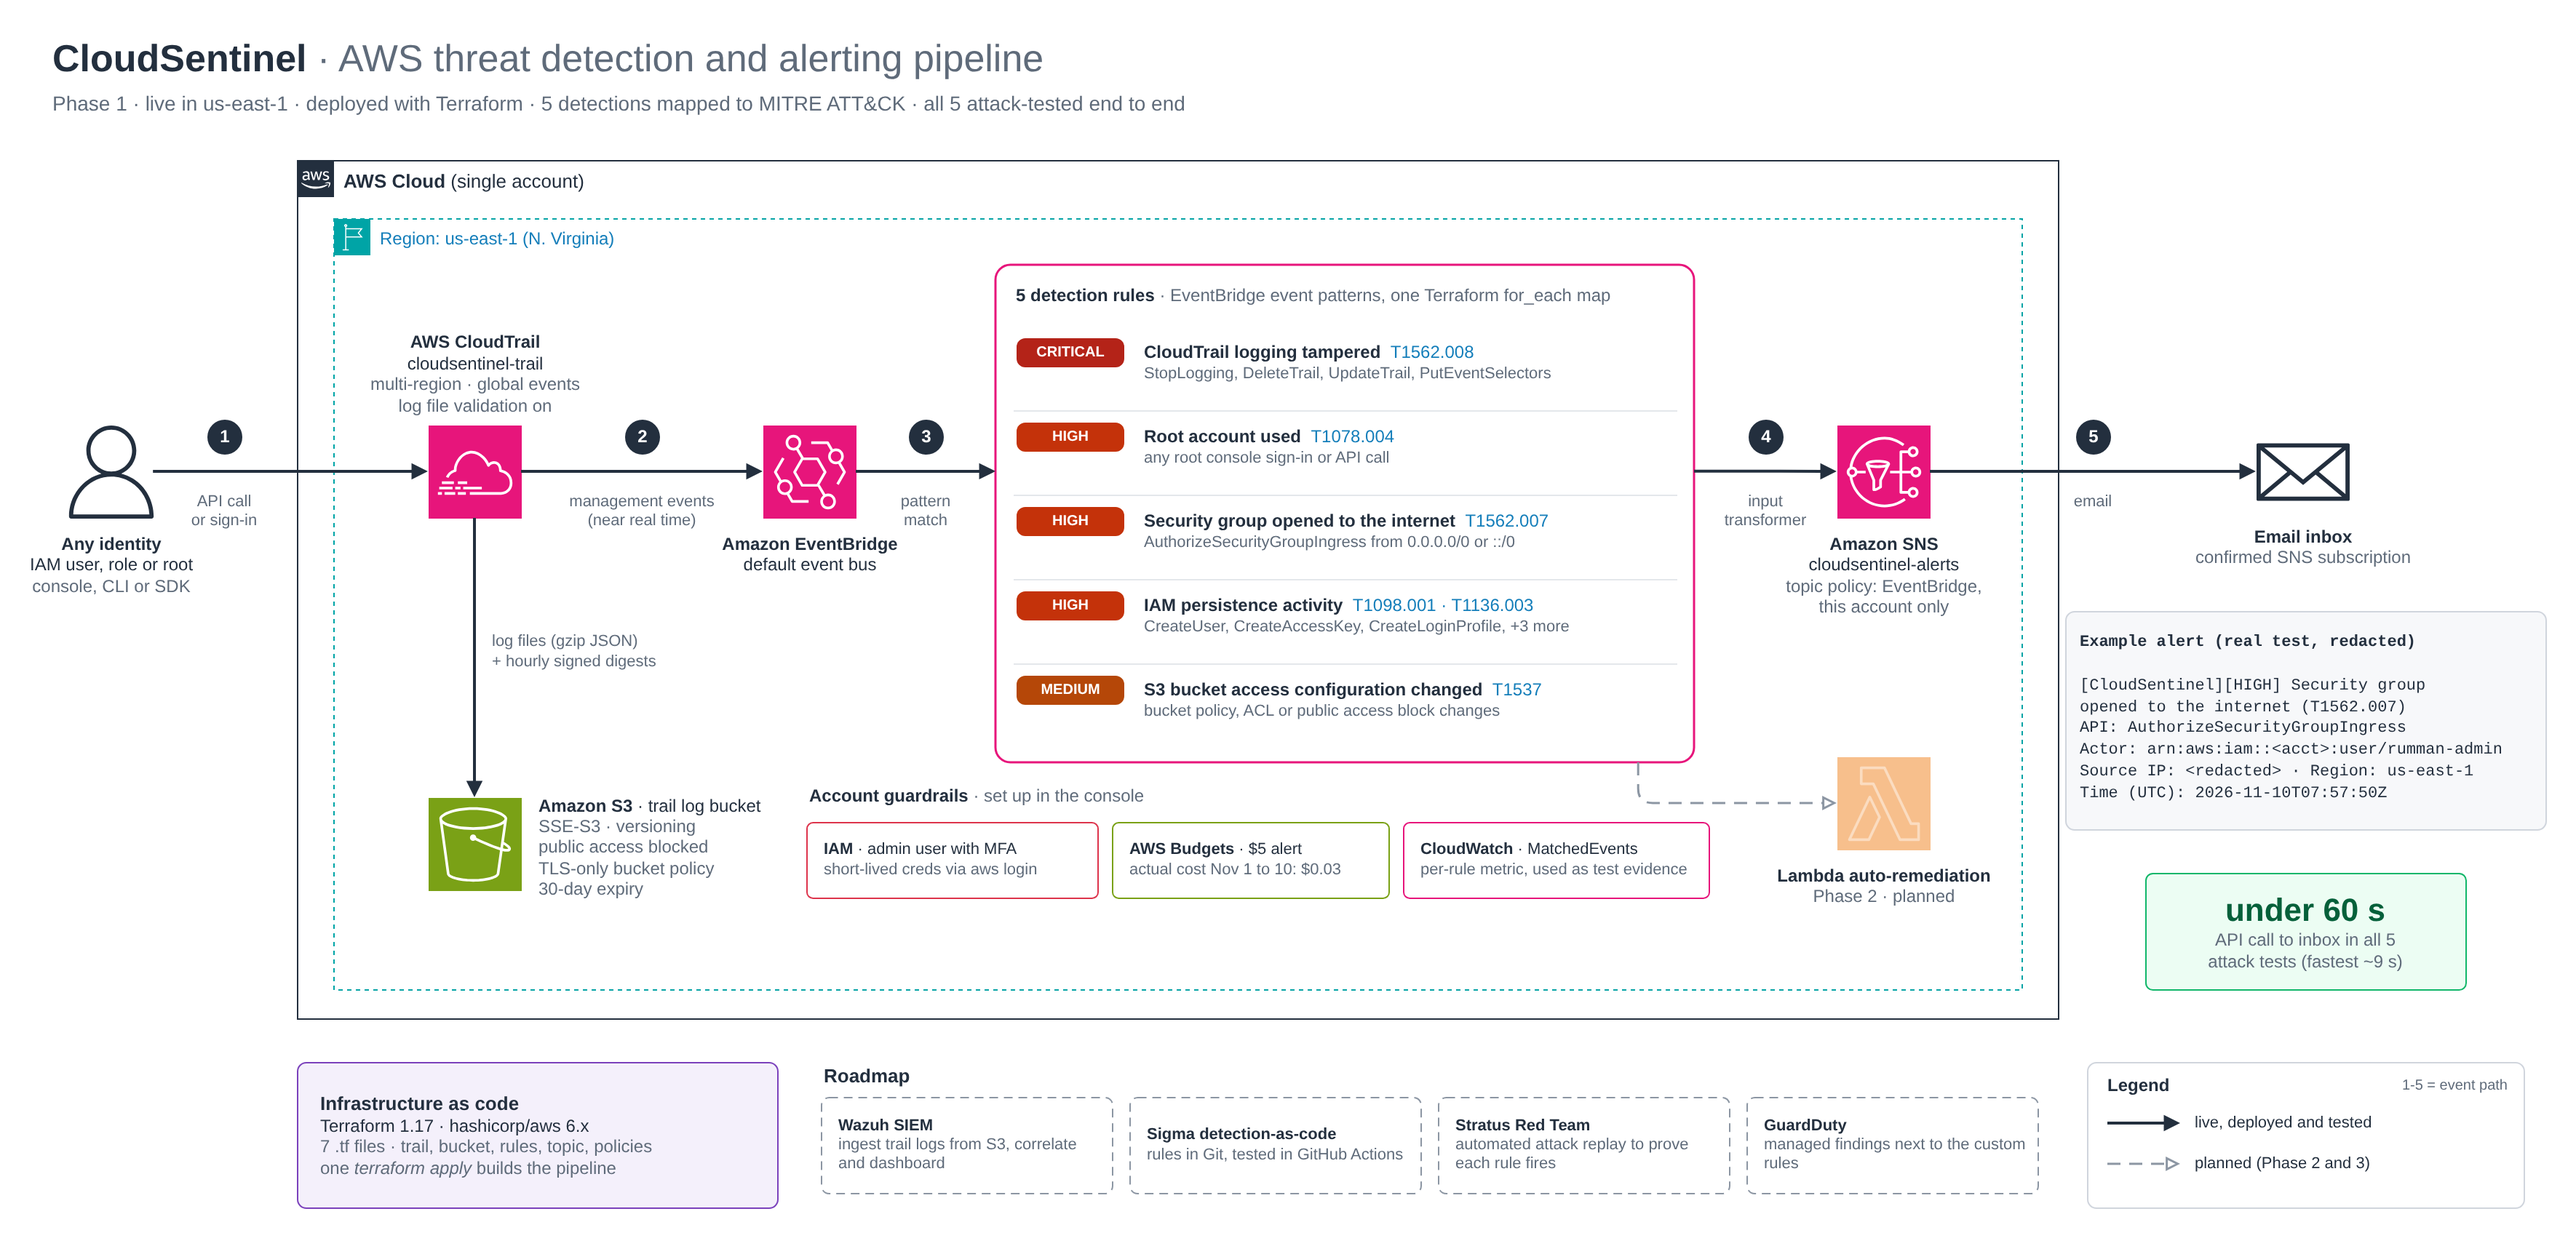
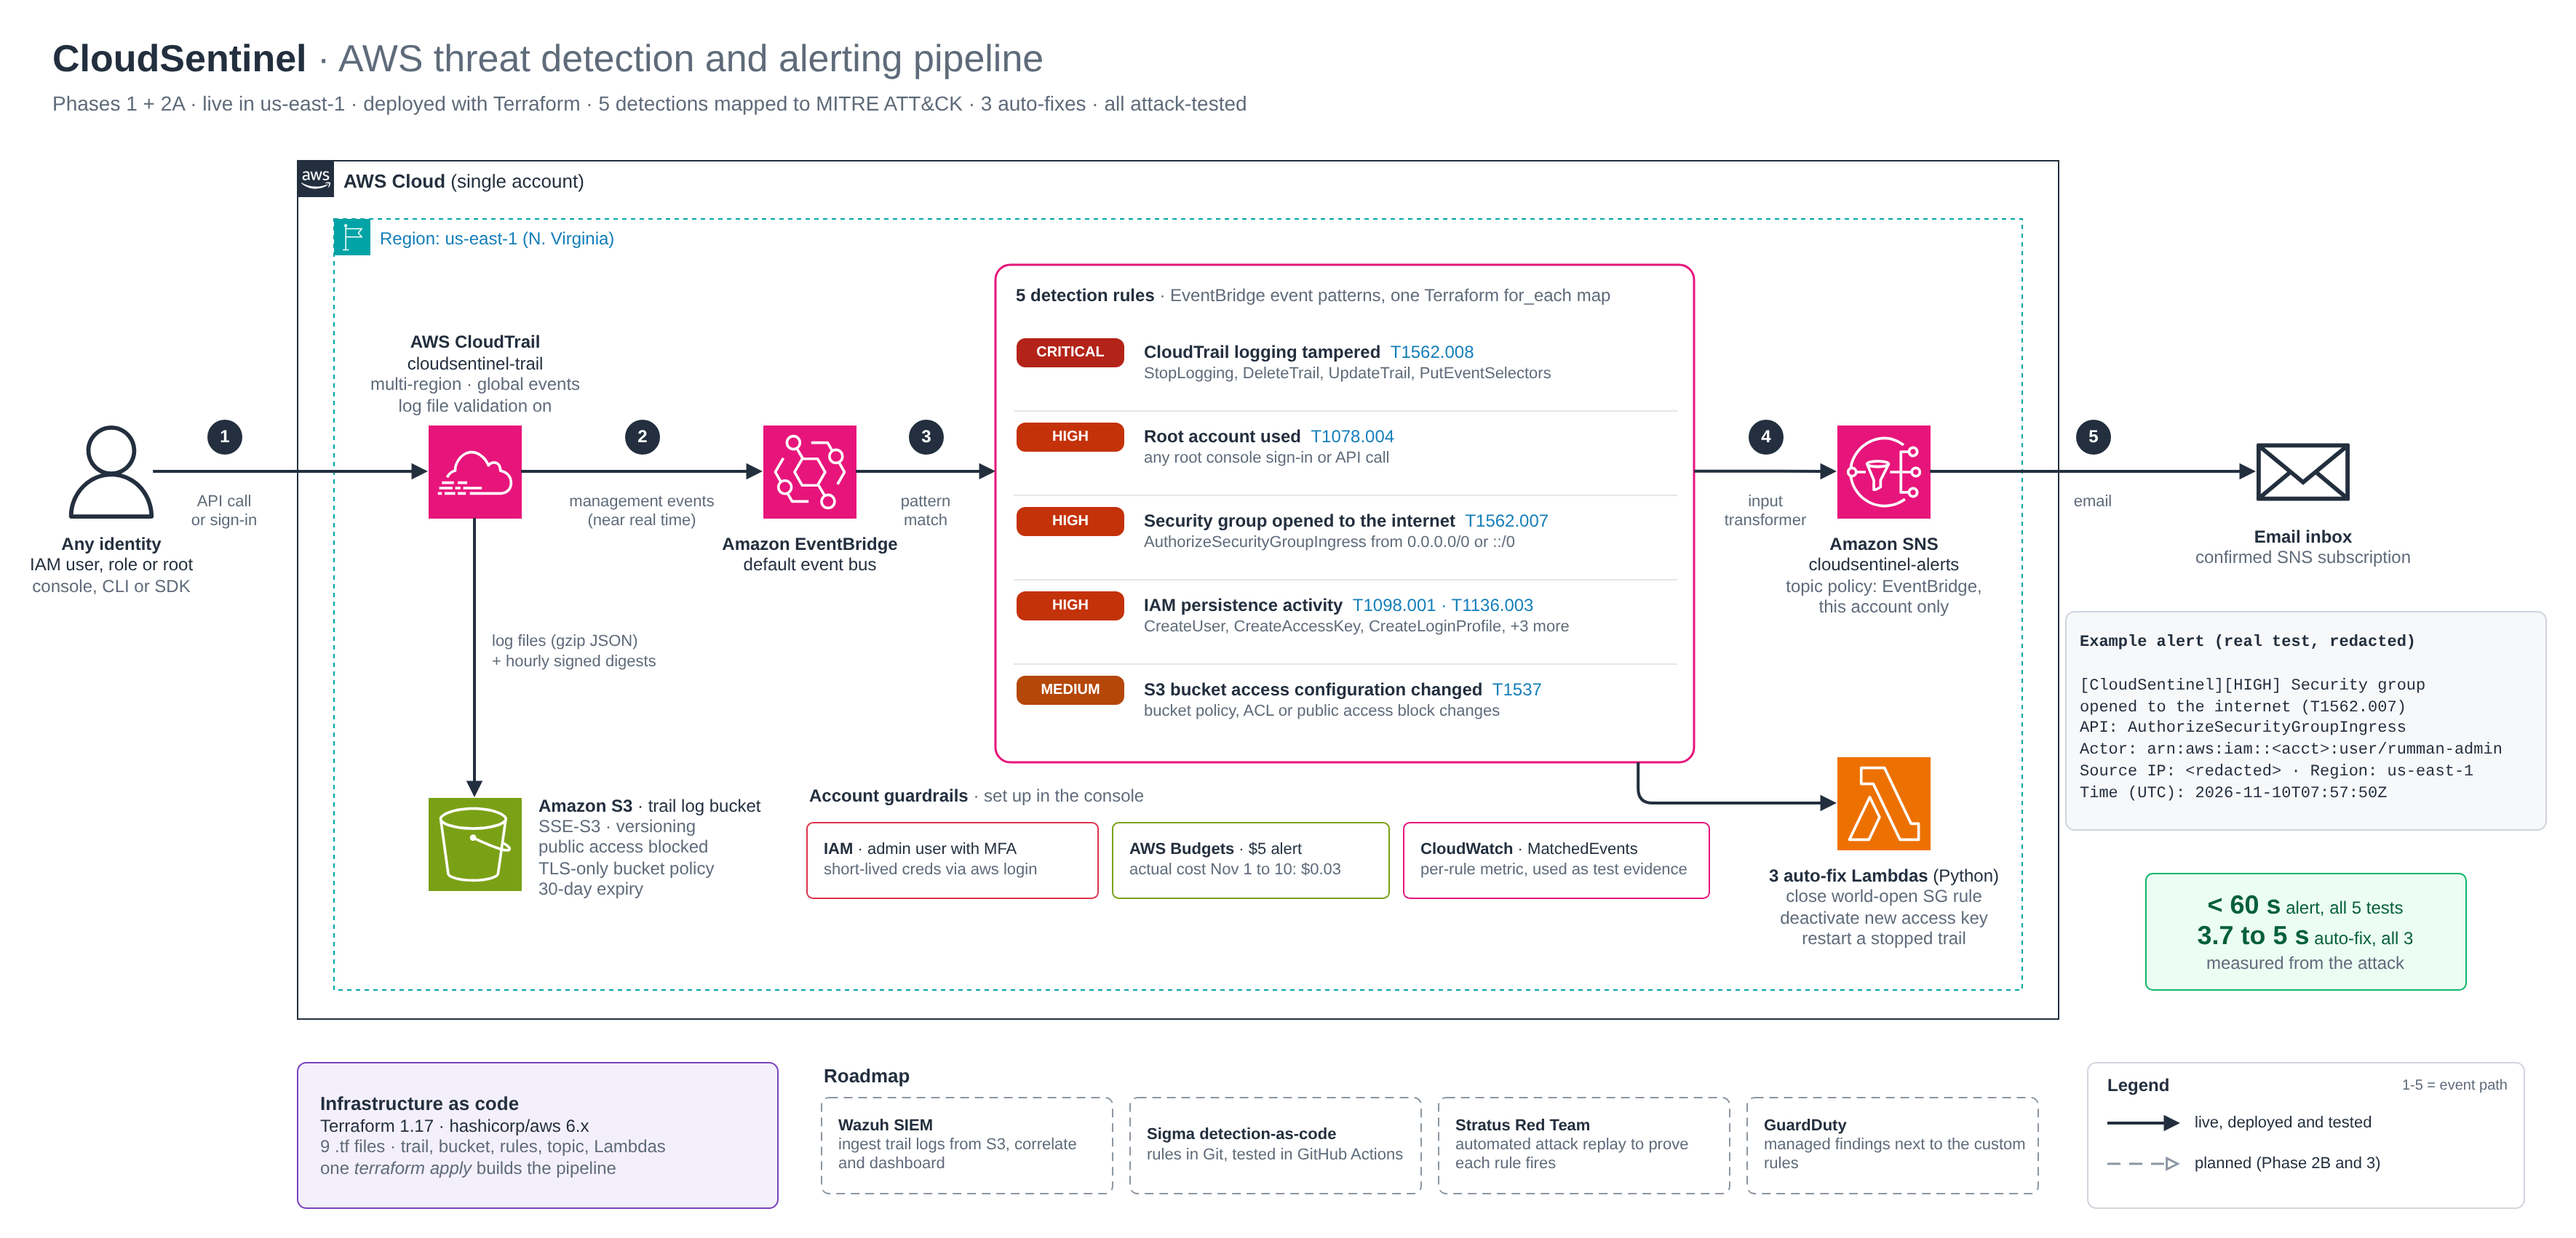
Update README and diagram for Phase 2A auto-remediation

diff --git a/README.md b/README.md
@@ -2,15 +2,15 @@
 
 # CloudSentinel
 
-CloudSentinel watches my AWS account for five risky actions and emails me when one happens. Every alert in my tests arrived in under a minute. It all deploys with Terraform.
+CloudSentinel watches my AWS account for five risky actions, emails me when one happens, and fixes three of them on its own. Every alert in my tests arrived in under a minute. The three auto-fixes finished 3.7 to 5 seconds after the attack. It all deploys with Terraform.
 
 Each detection maps to a MITRE ATT&CK technique. I tested every one by doing the risky thing myself, then cleaning up.
 
-**Where it stands:** detection and alerting work. Auto-fixing, a SIEM, and detection rules as code are next. None of those exist yet.
+**Where it stands:** detection, alerting and auto-remediation work. A SIEM and detection rules as code are next. Neither exists yet.
 
 ## How it works
 
-CloudTrail records every API call in every region. It keeps a copy in an S3 bucket and sends the events to EventBridge. Five rules there watch for the risky ones, and a match goes to an SNS topic that emails me.
+CloudTrail records every API call in every region. It keeps a copy in an S3 bucket and sends the events to EventBridge. Five rules there watch for the risky ones. A match goes to an SNS topic that emails me, and for three of the rules it also runs a Lambda that undoes the change.
 
     API call (any region)
           |
@@ -18,8 +18,9 @@ CloudTrail records every API call in every region. It keeps a copy in an S3 buck
           |------> S3 bucket (versioned, encrypted, log file validation on)
           |
     EventBridge (5 rules, us-east-1)
+          |------> SNS topic ------> email alert
           |
-    SNS topic ------> email alert
+          |------> Lambda (3 of the 5 rules) ------> fix + "AUTO-FIXED" email
 
 Each alert is one line, so it's quick to read:
 
@@ -29,15 +30,52 @@ Each alert is one line, so it's quick to read:
 
 ## The five detections
 
-| Rule | Fires on | ATT&CK | Severity |
-| --- | --- | --- | --- |
-| cloudtrail-tampering | StopLogging, DeleteTrail, UpdateTrail, PutEventSelectors | T1562.008 Disable or Modify Cloud Logs | CRITICAL |
-| root-activity | Any root sign-in or API call | T1078.004 Valid Accounts: Cloud Accounts | HIGH |
-| sg-open-to-world | A security group rule opened to 0.0.0.0/0 or ::/0 | T1562.007 Disable or Modify Cloud Firewall | HIGH |
-| iam-persistence | CreateUser, CreateAccessKey, CreateLoginProfile, AttachUserPolicy, PutUserPolicy, AddUserToGroup | T1098.001 Additional Cloud Credentials, T1136.003 Create Cloud Account | HIGH |
-| s3-access-change | Bucket policy, ACL, or public access block changes | T1537 Transfer Data to Cloud Account (a precursor signal, not exfiltration itself) | MEDIUM |
+| Rule | Fires on | ATT&CK | Severity | Auto-fix |
+| --- | --- | --- | --- | --- |
+| cloudtrail-tampering | StopLogging, DeleteTrail, UpdateTrail, PutEventSelectors | T1562.008 Disable or Modify Cloud Logs | CRITICAL | Restarts logging after StopLogging |
+| root-activity | Any root sign-in or API call | T1078.004 Valid Accounts: Cloud Accounts | HIGH | No, alert only |
+| sg-open-to-world | A security group rule opened to 0.0.0.0/0 or ::/0 | T1562.007 Disable or Modify Cloud Firewall | HIGH | Removes the open rule (port 443 is left alone) |
+| iam-persistence | CreateUser, CreateAccessKey, CreateLoginProfile, AttachUserPolicy, PutUserPolicy, AddUserToGroup | T1098.001 Additional Cloud Credentials, T1136.003 Create Cloud Account | HIGH | Deactivates a new access key |
+| s3-access-change | Bucket policy, ACL, or public access block changes | T1537 Transfer Data to Cloud Account (a precursor signal, not exfiltration itself) | MEDIUM | No, alert only |
 
-## What I tested
+## Auto-remediation
+
+Three small Python Lambdas run on the same EventBridge rules that send the alerts. Each one reads the CloudTrail event, checks whether it should act, makes one change, and emails me what it did.
+
+| Lambda | What it does | Can only |
+| --- | --- | --- |
+| cloudsentinel-sg-remediate | Removes inbound rules open to 0.0.0.0/0 or ::/0 on the group that changed. Port 443 is skipped, since a public website needs it. | Describe security groups, revoke ingress |
+| cloudsentinel-key-remediate | Sets a newly created access key to Inactive. It isn't deleted, so it can be switched back on. | Update access key status |
+| cloudsentinel-trail-remediate | Calls StartLogging when someone stops the CloudSentinel trail. | Start logging and read status on this one trail |
+
+Each Lambda has its own IAM role with only those permissions, plus publishing to the alert topic and writing its own logs.
+
+Safety checks I built in:
+
+- **Dry-run mode.** With `remediation_dry_run = true` (the default), the Lambdas only email what they would change. I deployed the first one in dry-run, checked that it changed nothing, then switched it on.
+- **Allowlists.** A security group tagged `cloudsentinel:allow-public=true` is skipped. Users listed in `remediation_allowed_users` keep their new keys.
+- **Root and S3 stay alert-only.** Root activity needs a human to judge it. Changing a bucket's access back automatically could break something that was changed on purpose.
+- **DeleteTrail stays alert-only.** A deleted trail can't simply be switched back on. Recreating it is a job for Terraform, not a Lambda.
+
+### What I tested
+
+| Auto-fix | What I did | Attack (UTC) | Fixed (UTC) | Time to fix |
+| --- | --- | --- | --- | --- |
+| Security group | Opened port 8080 to 0.0.0.0/0 on a group that already had 22 and 443 open | 10:38:31 | 10:38:36 | about 5 s |
+| Access key | Created a second access key for a throwaway user | 12:09:18 | 12:09:22 | about 4 s |
+| CloudTrail | Stopped logging on the trail | 12:20:18.59 | 12:20:22.31 | 3.7 s |
+
+The CloudTrail times come from AWS's own StopLoggingTime and StartLoggingTime, so that one is exact. The other two attack times come from the alert emails, which round to the second.
+
+In the security group test the Lambda closed 22 and 8080 and left 443 open, which is what it should do.
+
+![Trail stopped and restarted 3.7 seconds apart](docs/evidence/19c-trail-stopped-vs-restarted.png)
+
+![Security group auto-fix email](docs/evidence/15b-auto-fixed-email.png)
+
+![Access key auto-fix email](docs/evidence/18d-auto-fixed-key-inactive.png)
+
+## What I tested in Phase 1
 
 I ran each action with the AWS CLI, waited for the email, and then deleted what I'd made. For the IAM test, that was a throwaway user and access key.
 
@@ -63,6 +101,9 @@ More screenshots are in `docs/evidence/`.
 
 - My admin IAM user couldn't open the Billing console, even with AdministratorAccess. Only the root user can turn on IAM access to billing. I switched it on once as root, then went back to the admin user.
 - A leftover KMS key from an older lab was $0.68 of my $0.71 bill for October as of the 22nd. A disabled key still costs $1 a month, so I scheduled it for deletion. It's gone now.
+- I indented one line of Python with a Tab while the rest used spaces. The Lambda crashed on every run and the port stayed open. The CloudWatch log showed `inconsistent use of tabs and spaces`, so I converted the tabs and redeployed.
+- A paste went wrong and a Lambda file ended up as one stray word. `py_compile` passed because a single name is valid Python, but the function failed as soon as it ran. Compiling isn't the same as testing.
+- Failed Lambda runs get retried automatically. After I fixed the tab error, a retried event from the failed run closed port 22 on its own, so I got two AUTO-FIXED emails instead of one.
 
 ## Design choices
 
@@ -73,14 +114,18 @@ More screenshots are in `docs/evidence/`.
 - The bucket policy lets only this trail write, using an aws:SourceArn check, and it blocks plain HTTP.
 - All five detections live in one Terraform map, and the rules and targets are built from it. Adding a sixth means adding one block.
 - An EventBridge input transformer turns the raw event into the one-line alert, so I don't need a Lambda for that.
+- The fix Lambdas are extra targets on the existing rules, so the alert still goes out even if a fix fails.
+- Lambda logs are kept for 7 days to keep the cost near zero.
 - I log in with `aws login`, so there are no long-lived access keys on my laptop.
 - Everything runs in us-east-1, because IAM and root sign-in events only reach EventBridge there.
 
 ## What it doesn't do yet
 
 - The rules only run in us-east-1, so EC2 and S3 events from other regions slip through.
-- It alerts, but it doesn't fix anything.
-- Someone with admin rights could delete the EventBridge rules or the SNS topic, and nothing would tell me.
+- If a fix Lambda fails, nothing tells me. The alert still arrives, but I'd only spot the failure in the logs. An alarm on Lambda errors would fix that.
+- The security group fix removes every world-open rule on that group except 443, not just the one that was added.
+- The key fix only deactivates the new key. It doesn't remove the user or any policies the attacker attached.
+- Someone with admin rights could delete the EventBridge rules, the Lambdas or the SNS topic, and nothing would tell me.
 - CloudTrail to EventBridge delivery is best-effort, so I can't promise exact timing.
 - An admin can still delete log versions. A production setup would add S3 Object Lock and a separate log account.
 - I expect the s3-access-change and root-activity rules to be noisy on normal admin work. I haven't tuned them.
@@ -88,7 +133,7 @@ More screenshots are in `docs/evidence/`.
 
 ## Cost
 
-From November 1 to 10 the bill was $0.03. All of it was S3 log storage, and CloudTrail was $0.00.
+From November 1 to 10 the bill was $0.03. All of it was S3 log storage, and CloudTrail was $0.00. The Lambdas run a few times a month, which is well inside Lambda's free allowance.
 
 ## Deploy
 
@@ -102,12 +147,13 @@ You need Terraform 1.10 or newer, AWS CLI 2.32 or newer, and an AWS account.
 
 Then click the confirmation link in the SNS email. Alerts don't arrive until you do.
 
+The fix Lambdas start in dry-run mode. To let them make changes, add `remediation_dry_run = false` to `terraform.tfvars` and run `terraform apply` again.
+
 To remove everything, run `terraform destroy`. It also deletes the log bucket and the logs in it.
 
 ## What's next
 
-- Lambda functions that fix things on their own, like removing an open security group rule or deactivating a new access key.
 - Wazuh reading the CloudTrail logs, so alerts land in a SIEM.
+- An alarm when a fix Lambda fails.
 - Detection rules written in Sigma and tested in GitHub Actions.
 - Attack testing with Stratus Red Team.
-
